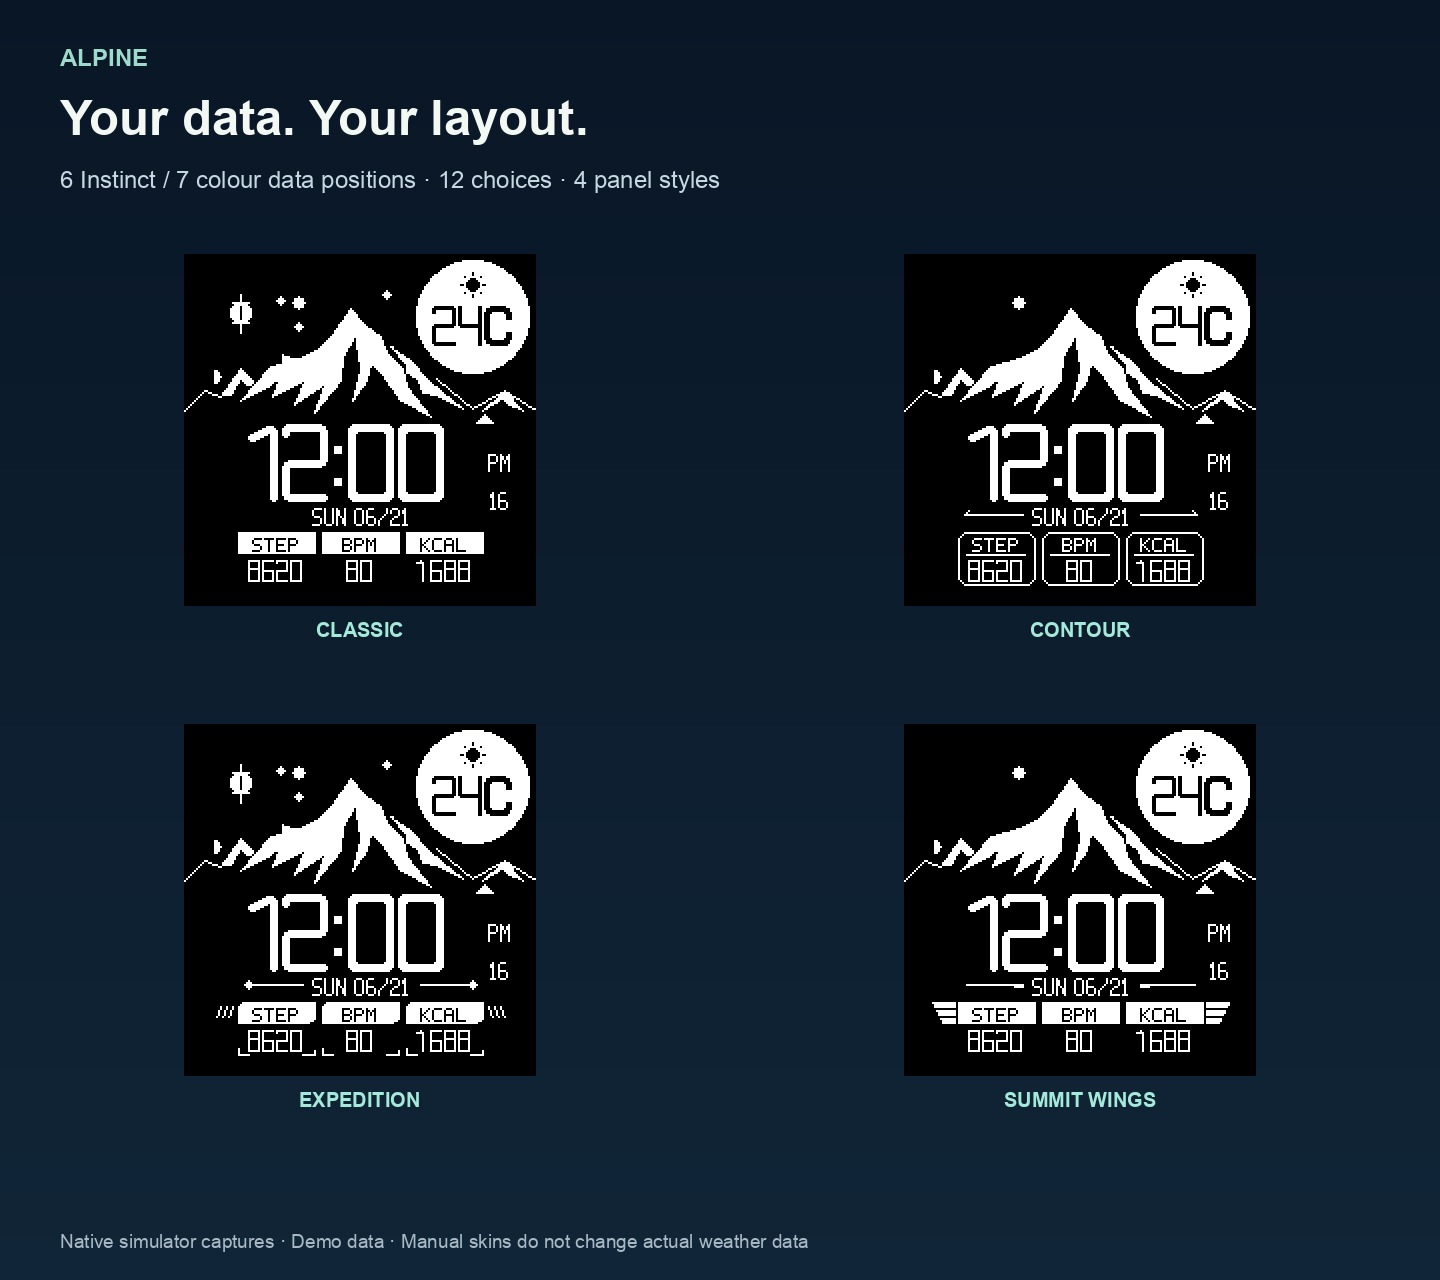
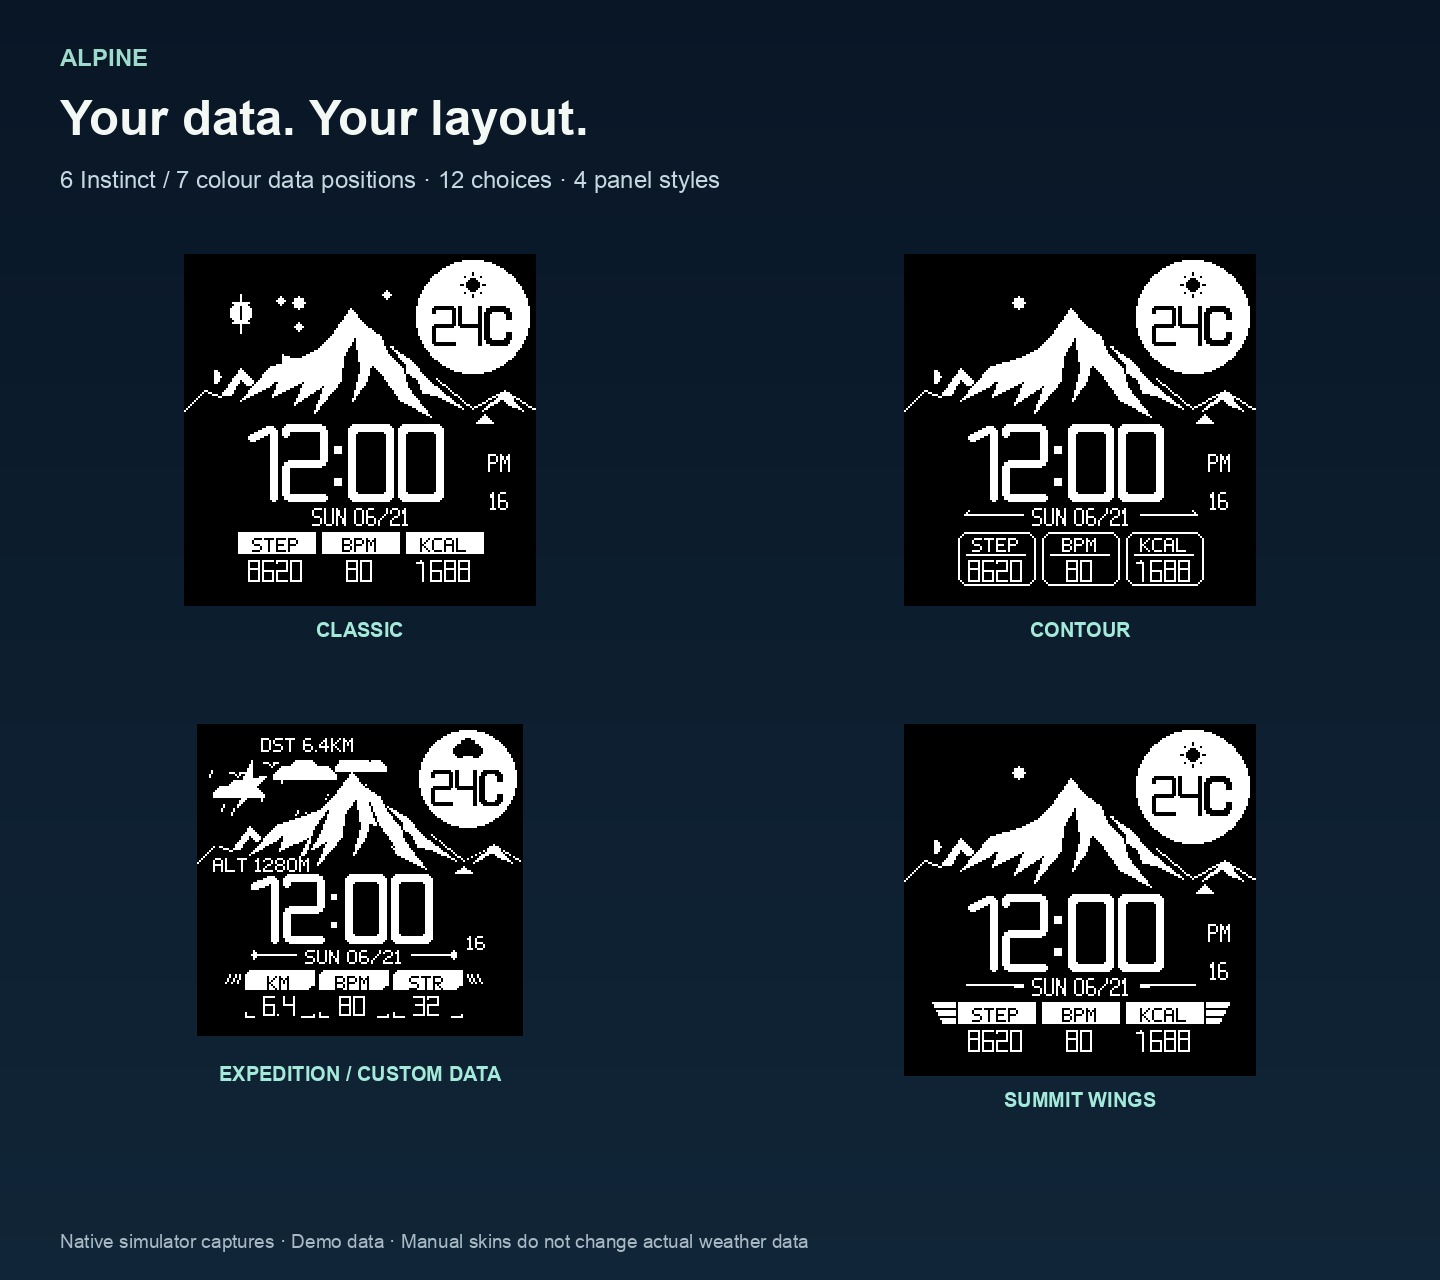
Verify Alpine full-data storm configuration on minimum watch heap

Changed region(s): [[0.125, 0.5625, 0.375, 0.875]]

diff --git a/alpine/tools/gallery.py b/alpine/tools/gallery.py
@@ -4,9 +4,11 @@ Uses the production source, generated native assets, and isolated demo app IDs.
 from pathlib import Path
 import argparse,concurrent.futures,json,os,shutil,subprocess,uuid,xml.etree.ElementTree as ET
 ROOT=Path(__file__).resolve().parents[1]
-p=argparse.ArgumentParser();p.add_argument('device',choices=['fenix7','epix2','instinct2s','instinct3solar45mm']);p.add_argument('names',nargs='+',choices=['halloween','mid-autumn-night','sunrise','sunset','sky-birds','sky-plane','sky-both','aurora','rain','snow','auto-rain']);a=p.parse_args()
-FRAMES={'halloween':(4,0),'mid-autumn-night':(5,3),'sunrise':(1,1),'sunset':(1,2),'sky-birds':(1,0),'sky-plane':(1,0),'sky-both':(1,0),'aurora':(1,3),'rain':(1,6),'snow':(1,7),'auto-rain':(1,6)}
+p=argparse.ArgumentParser();p.add_argument('device',choices=['fenix7','epix2','instinct2s','instinct3solar45mm']);p.add_argument('names',nargs='+',choices=['halloween','mid-autumn-night','sunrise','sunset','sky-birds','sky-plane','sky-both','aurora','rain','snow','auto-rain','budget']);a=p.parse_args()
+FRAMES={'halloween':(4,0),'mid-autumn-night':(5,3),'sunrise':(1,1),'sunset':(1,2),'sky-birds':(1,0),'sky-plane':(1,0),'sky-both':(1,0),'aurora':(1,3),'rain':(1,6),'snow':(1,7),'auto-rain':(1,6),'budget':(1,8)}
 PRESETS={'halloween':{'Scene':16},'mid-autumn-night':{'Scene':17},'sky-birds':{'Scene':2,'SkyDecor':1,'WeatherLink':1},'sky-plane':{'Scene':2,'SkyDecor':2,'WeatherLink':1},'sky-both':{'Scene':2,'SkyDecor':3,'WeatherLink':1},'aurora':{'Scene':13,'SkyDecor':3,'WeatherLink':1},'rain':{'Scene':5,'SkyDecor':3},'snow':{'Scene':10,'SkyDecor':3},'auto-rain':{'Scene':0}}
+# Avoid the legacy factory IDs that first-run migration intentionally hides.
+PRESETS['budget']={'Scene':7,'SkyDecor':3,'PanelStyle':3,'HeaderTop':5,'HeaderLeft':3,'HeaderRight':8,'Left':5,'Middle':1,'Right':7}
 sdk=Path((Path.home()/'Library/Application Support/Garmin/ConnectIQ/current-sdk.cfg').read_text().strip())
 env=dict(os.environ,JAVA_HOME='/Library/Java/JavaVirtualMachines/jdk-19.jdk/Contents/Home');env['PATH']=env['JAVA_HOME']+'/bin:'+env['PATH']
 def build(name):

diff --git a/alpine/tools/make_store_media.py b/alpine/tools/make_store_media.py
@@ -82,7 +82,7 @@ def main():
   ('03-festivals.jpg','Four festivals, any time of year','Spring Festival · Christmas · Halloween · Mid-Autumn',[
    ('SPRING FESTIVAL','docs/verified-bright/epix2-spring.png',True),('CHRISTMAS','docs/verified-bright/epix2-christmas.png',True),('HALLOWEEN','docs/verified-bright/epix2-halloween.png',True),('MID-AUTUMN / NIGHT','docs/verified-bright/epix2-mid-autumn-night.png',True)]),
   ('04-your-data.jpg','Your data. Your layout.','6 Instinct / 7 colour data positions · 12 choices · 4 panel styles',[
-   ('CLASSIC','docs/verified/verified-instinct3-classic.png',False),('CONTOUR','docs/verified/verified-instinct3-contour.png',False),('EXPEDITION','docs/verified/verified-instinct3-expedition.png',False),('SUMMIT WINGS','docs/verified/verified-instinct3-wings.png',False)]),
+   ('CLASSIC','docs/verified/verified-instinct3-classic.png',False),('CONTOUR','docs/verified/verified-instinct3-contour.png',False),('EXPEDITION / CUSTOM DATA','docs/verified-release/instinct2s-full-data-storm-expedition.png',False),('SUMMIT WINGS','docs/verified/verified-instinct3-wings.png',False)]),
   ('05-everyday.jpg','Built for everyday use','12/24-hour time · Awake seconds · Moving Sun/Moon · Low-brightness AMOLED clock',[
    ('12-HOUR / COLOUR','docs/verified-bright/epix2-day-bright.png',True),('24-HOUR / COLOUR','docs/verified-release/epix2-day-birds-plane.png',True),('AMOLED / ALWAYS-ON','docs/verified-release/epix2-aod-native.png',True),('ON-WATCH SETTINGS','docs/verified-bright/instinct2s-time24-menu.png',False)])]
  for name,title,subtitle,items in PANELS:

diff --git a/alpine/docs/validation.md b/alpine/docs/validation.md
@@ -5,7 +5,7 @@
 
 本节覆盖下方 11 月 5 日“待解锁”的记录，后文保留为历史证据。当前运行结果使用最终生成的无数组面板代码：Instinct 2S、epix2 各 34 项原生测试全部通过，日志与 PRG 哈希在 `dist/evidence/tests.json`。
 
-正常 2S 堆中发现设置返回时内存不足，已通过保留当前背景、释放非活动菜单行与字体、提前分配背景、构建时把固定面板多边形转为原生矩形跨度修复。正式路径 16 次设置进入/超时返回及跨分钟显示通过，回到 56.5/59.8 KB；独立演示 ID 的雨景加飞鸟/飞机正常启动剩余 2200 字节，3 次设置返回通过；雪景加同样装饰正常启动，剩余 2200 字节。这些是模拟器内存证据，不能推导实体续航。
+正常 2S 堆中发现设置返回时内存不足，已通过保留当前背景、释放非活动菜单行与字体、提前分配背景、构建时把固定面板多边形转为原生矩形跨度修复。正式路径 16 次设置进入/超时返回及跨分钟显示通过，回到 56.5/59.8 KB；独立演示 ID 的雨景加飞鸟/飞机正常启动剩余 2200 字节，3 次设置返回通过；雪景加同样装饰正常启动，剩余 2200 字节。另以全部 6 个单色数据位、闪电、鸟/飞机与远征面板组合检查，正常启动剩余 2200 字节、3 次设置返回通过，并导出原生截图。这些是模拟器内存证据，不能推导实体续航。
 
 epix2 实际 Always-On 模式仅绘制低亮时钟，两次原生截图墨迹区域分别为 `(164,103)-(251,137)` 和 `(164,169)-(251,203)`，没有重叠。首帧非黑像素 1308 / 173056，平均 RGB 加权亮度约 0.345%；该值不是面板实测亮度。切回 High Power 后山景恢复，2 次设置返回通过。截图和审计见 `docs/verified-release`、`dist/evidence/aod-framebuffer-audit.json`。
 
